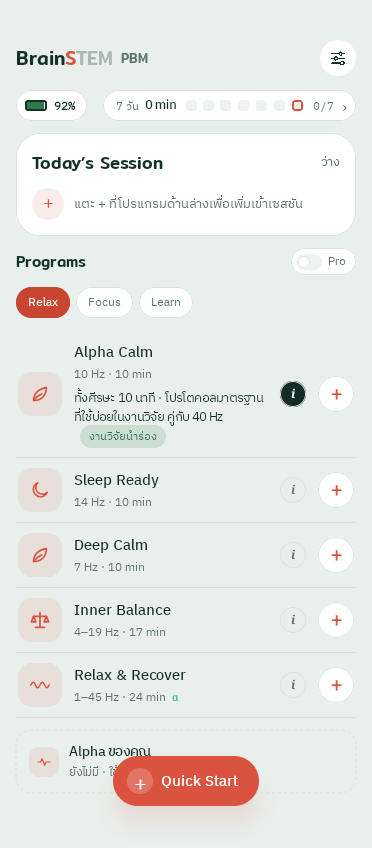
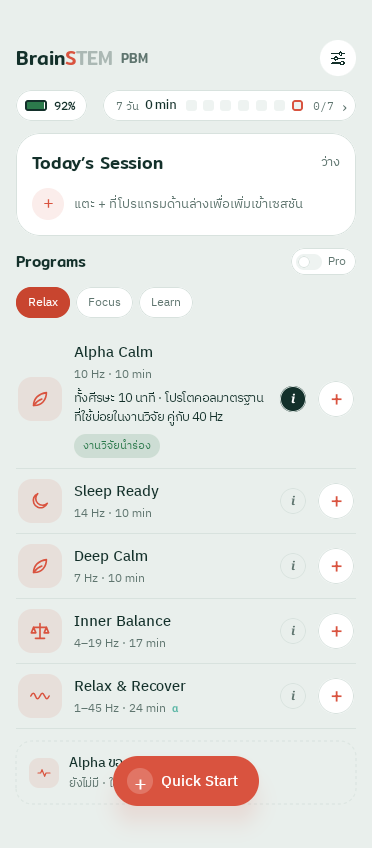
style(android): give program evidence badges their own line

diff --git a/app/src/main/java/com/brainstem/stimulate/App.kt b/app/src/main/java/com/brainstem/stimulate/App.kt
@@ -8,9 +8,7 @@ import androidx.compose.foundation.*
 import androidx.compose.foundation.layout.*
 import androidx.compose.foundation.shape.*
 import androidx.compose.foundation.text.BasicTextField
-import androidx.compose.foundation.text.InlineTextContent
 import androidx.compose.foundation.text.KeyboardOptions
-import androidx.compose.foundation.text.appendInlineContent
 import androidx.compose.material3.*
 import androidx.compose.runtime.*
 import androidx.compose.runtime.saveable.rememberSaveable
@@ -19,13 +17,11 @@ import androidx.compose.ui.draw.clip
 import androidx.compose.ui.draw.shadow
 import androidx.compose.ui.graphics.Color
 import androidx.compose.ui.platform.LocalContext
-import androidx.compose.ui.platform.LocalDensity
 import androidx.compose.ui.res.painterResource
 import androidx.compose.ui.semantics.Role
 import androidx.compose.ui.semantics.contentDescription
 import androidx.compose.ui.semantics.selected
 import androidx.compose.ui.semantics.semantics
-import androidx.compose.ui.text.*
 import androidx.compose.ui.text.font.FontWeight
 import androidx.compose.ui.text.input.*
 import androidx.compose.ui.unit.*
@@ -630,33 +626,13 @@ private fun ProgramRow(a: AppState, p: Program) {
 
 @Composable
 private fun ProgramDescription(goal: String, kind: String, evidence: String) {
-    val measurer = rememberTextMeasurer()
-    val badgeStyle = TextStyle(fontFamily = BodyFont, fontSize = 11.sp)
-    val badgeSize = measurer.measure(evidence, badgeStyle).size
-    val width = with(LocalDensity.current) { (badgeSize.width.toDp() + 24.dp).toSp() }
-    val text = buildAnnotatedString {
-        append(goal)
-        if (evidence.isNotEmpty()) appendInlineContent("evidence", " $evidence")
+    Column(Modifier.padding(top = 4.dp)) {
+        Text(goal, fontFamily = BodyFont, fontSize = 12.5.sp, lineHeight = 18.125.sp, color = C.ink)
+        if (evidence.isNotEmpty()) {
+            Spacer(Modifier.height(6.dp))
+            EvidenceBadge(kind, evidence)
+        }
     }
-    Text(
-        text,
-        Modifier.padding(top = 4.dp),
-        fontFamily = BodyFont,
-        fontSize = 12.5.sp,
-        lineHeight = 18.125.sp,
-        color = C.ink,
-        inlineContent =
-            if (evidence.isEmpty()) emptyMap()
-            else
-                mapOf(
-                    "evidence" to
-                        InlineTextContent(
-                            Placeholder(width, 23.sp, PlaceholderVerticalAlign.TextCenter)
-                        ) {
-                            Box(Modifier.padding(start = 6.dp)) { EvidenceBadge(kind, evidence) }
-                        }
-                ),
-    )
 }
 
 @Composable

diff --git a/docs/parity-audit-2026-11-02.md b/docs/parity-audit-2026-11-02.md
@@ -61,7 +61,7 @@ After the 2 November comparison, the original reference was left in Easy mode wi
 
 Follow-up on **3 November 2026**, addressing the two marked browser comments:
 
-- Program info now has the reference's filled ink/white selected state. Description text uses ink, a 4 dp top margin, 12.5 sp / 1.45 typography, and an inline evidence badge. The test opens/closes it and verifies that the app remains on Home.
+- Program info now has the reference's filled ink/white selected state. Description text uses ink, a 4 dp top margin and 12.5 sp / 1.45 typography. The original inline evidence badge was subsequently moved to its own line with 6 dp above it at the user's request. The test opens/closes the description and verifies that the app remains on Home.
 - Builder up/down/copy/delete controls use the exact vector paths, 30×30 dp containers and 9 dp corners. Copy/delete icons are 15 dp; arrows are 16 dp. A disabled control fades as a whole to 30%, including its background. Delete is disabled for one step, enabled after duplication, and disabled again after deleting back to one step; device assertions cover those transitions.
 - The same pass corrected the builder's 130 dp mode selector and 38 dp / 22 sp fixed-frequency and duty controls. Compact duration controls distribute their available width, preserving the full button width.
 - The original browser draft, **Alpha Calm (copy)**, was preserved. A separate temporary reference tab was used to inspect info behavior, then closed.

diff --git a/docs/comparison/README.md b/docs/comparison/README.md
@@ -14,4 +14,6 @@ The review compares data, layout, controls, and behavior. Browser JPEG compressi
 
 Follow-up on 3 November: `reference-info-expanded.jpg` and `reference-builder-alpha-copy.jpg` record the two marked areas. Native captures `20-program-info-expanded.png` and `21-builder-alpha-copy.png` reproduce those states, including the filled info button and fully faded single-step delete button. The reference info capture includes an existing queue; compare the marked row itself rather than its absolute vertical position.
 
+The user subsequently requested a spacing trial for the evidence badge. Current native capture `20-program-info-expanded.png` puts it on its own line with 6 dp above it. The inline badge in `marked-controls-side-by-side.png` records the earlier reference-matching version and is superseded by this deliberate spacing change.
+
 The later Duplicate & Edit comment is recorded by native captures `22-program-actions.png` and `23-custom-program-actions.png` in `../screenshots`. The preset action spans the content width, includes the source copy icon and uses `.btn.sm` geometry. Custom actions use the matching edit/copy/trash icons and Delete color. The About panel's missing icon/caption/value columns above the action were corrected in the same pass.

diff --git a/docs/parity.md b/docs/parity.md
@@ -22,6 +22,7 @@ Reference: signed-in public web app, Stimulate module, inspected 2026-11-02. Nat
 ## Scope changes
 
 - The bottom navigation bar is removed. The app opens directly to the Stimulate main screen after login; detail screens retain their back buttons. No Train, Evaluate, or Map routes exist.
+- Per the requested spacing trial, expanded program descriptions place the evidence badge on its own line, 6 dp below the text, instead of the reference's inline badge.
 - The 7-day strip leads to Stimulate History, keeping history available without Map.
 - IAPF is not measured or fetched from an excluded Evaluate module. Default preset frequencies are used.
 - Native status/navigation bars and adaptive screen sizing replace the website's phone mockup.
